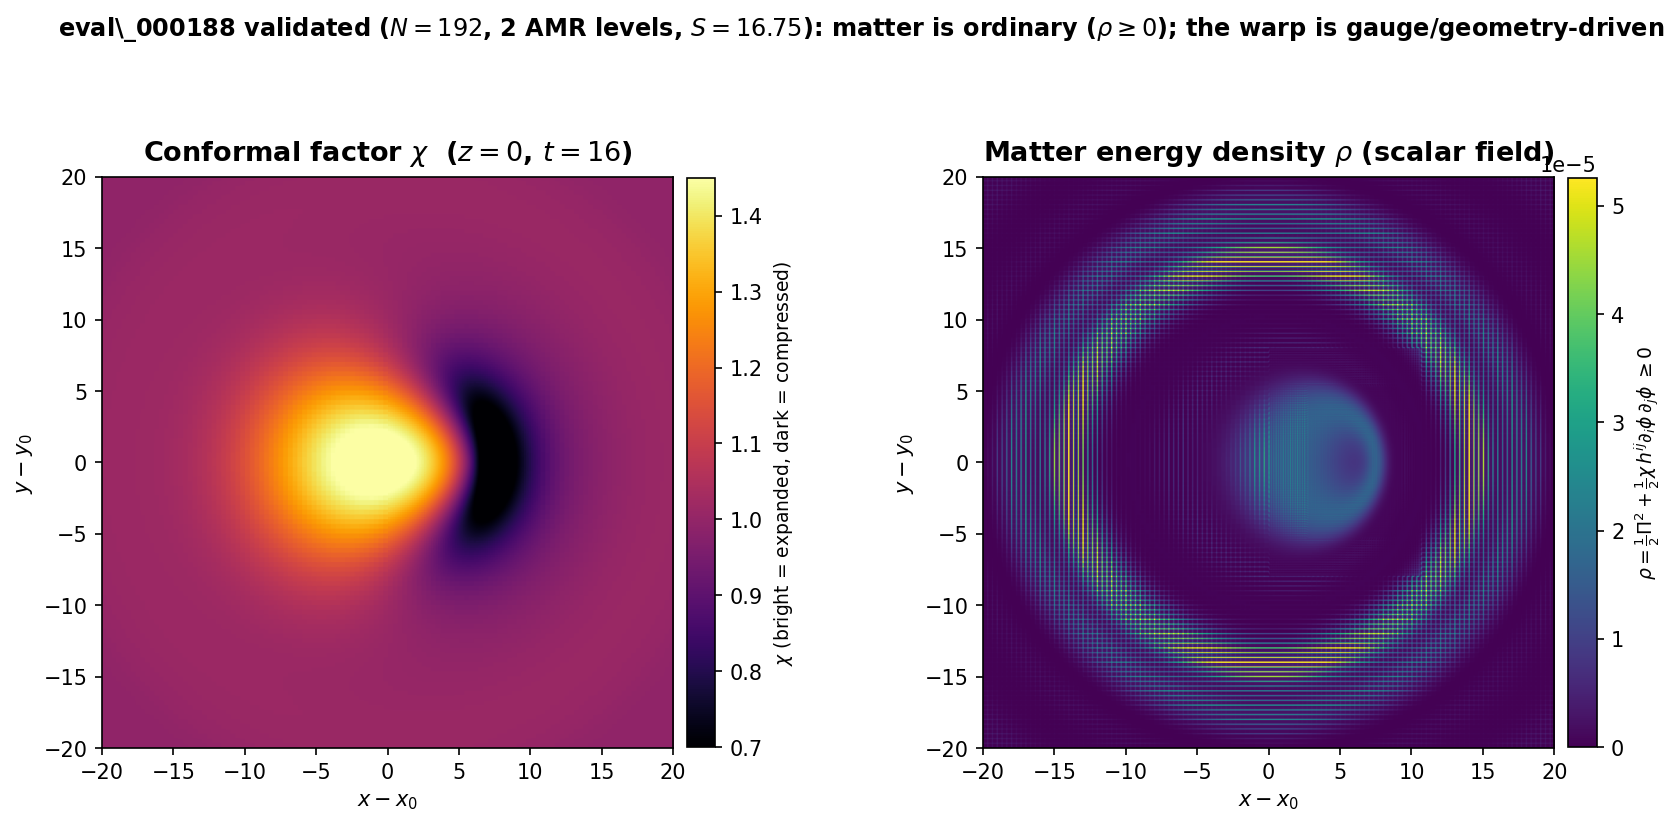
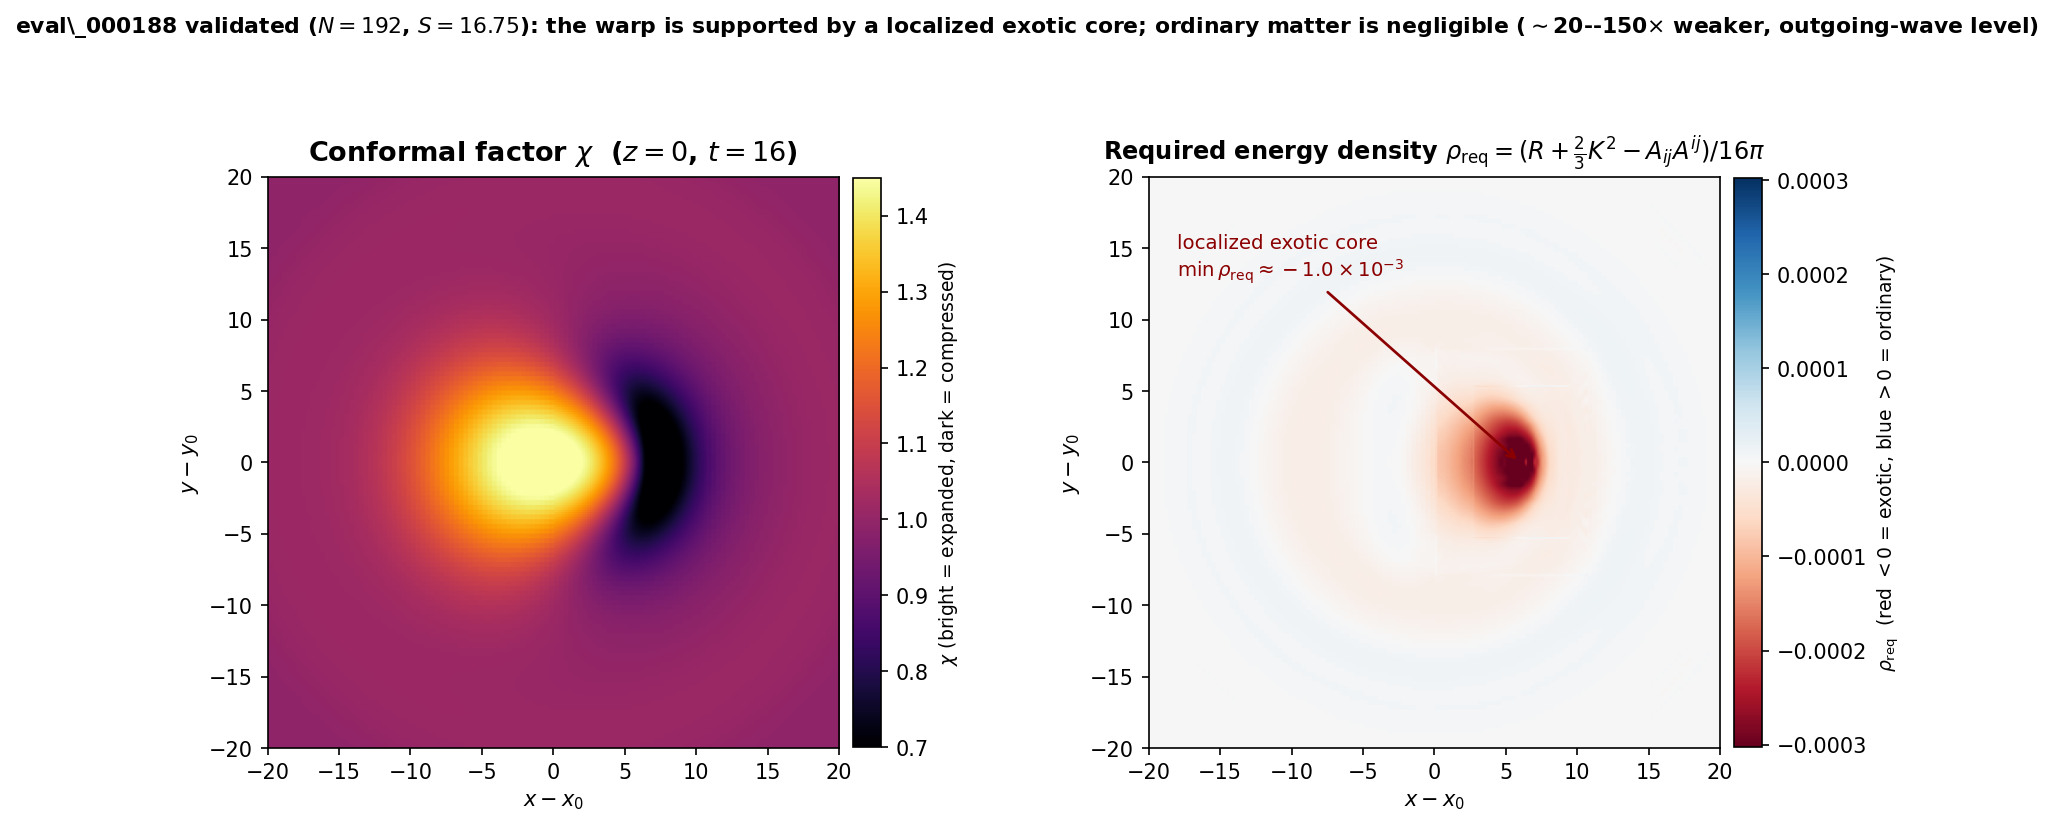
feat: paper update

diff --git a/research/researchnew.tex b/research/researchnew.tex
@@ -399,10 +399,10 @@ Beyond CMA-ES, two complementary strategies were tested.  A surrogate-assisted R
 
 Because angular $\chi$ deformations cannot be made constraint-consistent by a 1D solve, we opened the gauge sector: $\alpha$ and $\beta^i$ carry Legendre modes with $\ell\in\{1,2\}$ and searchable radial centers/widths, giving a 21-parameter gauge-angular space.  An 8-GPU campaign found evolved superluminal channels at $\int\!\rho_{-}\,dV\approx0.13$--$0.17$, a factor $2$--$5$ below spherical persistent-FTL candidates.
 
-The three top-ranked candidates of the campaign and the long-run validation of the best are compared against the reference solutions by gated score $S$ in Table~\ref{tab:score_comparison}.  The top candidate, \texttt{eval\_000188}, was promoted and re-evolved to $t=16$ at $N_{\rm full}=192$, \texttt{max\_level=2} (Fig.~\ref{fig:hq188}).  The validated geometry is a standing Alcubierre-like $\chi$ dipole, not a translating bubble: the evolved channel persists weakly ($\max c:2.67\!\to\!1.32$, $F_{\rm op}^{\rm ev}=5.6\times10^{-3}$, $51\%$ of the path superluminal), constraints stay clean and decreasing ($\|H\|_{L^2}:1.1\times10^{-3}\!\to\!4.2\times10^{-4}$, $\|M\|_{L^2}^{\rm fin}=3.6\times10^{-5}$), and the required exotic matter stays small and axial ($\int\rho_-\,dV=0.134$, ANEC line $-6.6\times10^{-3}$), though a near-trapped flag appears in the compressed lobe ($\min\theta_+=-0.11$).
+The three top-ranked candidates of the campaign and the long-run validation of the best are compared against the reference solutions by gated score $S$ in Table~\ref{tab:score_comparison}.  The top candidate, \texttt{eval\_000188}, was promoted and re-evolved to $t=16$ at $N_{\rm full}=192$, \texttt{max\_level=2} (Fig.~\ref{fig:rho_req}).  The validated geometry is a standing Alcubierre-like $\chi$ dipole, not a translating bubble: the evolved channel persists weakly ($\max c:2.67\!\to\!1.32$, $F_{\rm op}^{\rm ev}=5.6\times10^{-3}$, $51\%$ of the path superluminal), constraints stay clean and decreasing ($\|H\|_{L^2}:1.1\times10^{-3}\!\to\!4.2\times10^{-4}$, $\|M\|_{L^2}^{\rm fin}=3.6\times10^{-5}$), and the required exotic matter stays small and concentrated in a single localized core at the compression lobe ($\int\rho_-\,dV=0.13$, $\min\rho_{\rm req}\approx-1.0\times10^{-3}$, ANEC line $-6.6\times10^{-3}$; Fig.~\ref{fig:rho_req}), though a near-trapped flag appears in the compressed lobe ($\min\theta_+=-0.11$).
 
 \begin{table*}[t]
-\caption{Candidates ranked by the gated objective $S$ (Eq.~\ref{eq:gated_score}).  The three top gauge-angular search winners (Tier-1, $t=2$, $N_{\rm full}=64$) and the high-quality long-run validation of the best ($t=16$, $N_{\rm full}=192$) are compared to the reference seeds ($t=16$, $N_{\rm full}=64$).  $\int\rho_-\,dV$ is the integrated required negative-energy density (matter sector); $\max c$ is the peak coordinate light speed on the initial slice; $F_{\rm op}^{\rm ev}$ is the evolved (persistence) operational-FTL benefit.  The Tier-1 search $S$ is evaluated over a short window and is therefore optimistic relative to the long-time value---the validated $t=16$ row ($S=16.75$) is the fair comparison with the seeds, and it still outscores Alcubierre.  The non-spherical winners use \emph{normal} matter ($\rho\ge0$ constrained solve) with low residual exotic content; the reference wormhole/puncture seeds use phantom (exotic) initial data, and Alcubierre's matter sector is clean ($\int\rho_-\approx0$) with its exoticity living in the geometry (effective EC).}
+\caption{Candidates ranked by the gated objective $S$ (Eq.~\ref{eq:gated_score}).  The three top gauge-angular search winners (Tier-1, $t=2$, $N_{\rm full}=64$) and the high-quality long-run validation of the best ($t=16$, $N_{\rm full}=192$) are compared to the reference seeds ($t=16$, $N_{\rm full}=64$).  $\int\rho_-\,dV$ is the integrated required negative-energy density (geometric requirement from the vacuum Hamiltonian, Eq.~\ref{eq:rho_req}; for the dipole winner it is a single localized core, Fig.~\ref{fig:rho_req}); $\max c$ is the peak coordinate light speed on the initial slice; $F_{\rm op}^{\rm ev}$ is the evolved (persistence) operational-FTL benefit.  The Tier-1 search $S$ is evaluated over a short window and is therefore optimistic relative to the long-time value---the validated $t=16$ row ($S=16.75$) is the fair comparison with the seeds, and it still outscores Alcubierre.  The non-spherical winners use \emph{normal} matter ($\rho\ge0$ constrained solve) with low residual exotic content; the reference wormhole/puncture seeds use phantom (exotic) initial data, and Alcubierre's matter sector is clean ($\int\rho_-\approx0$) with its exoticity living in the geometry (effective EC).}
 \label{tab:score_comparison}
 \small
 \begin{ruledtabular}
@@ -427,14 +427,25 @@ Flat Minkowski & $16\,/\,64$ & $0$ & $1.00$ & --- & \textbf{0.0}\\
 \end{ruledtabular}
 \end{table*}
 
+Even after honest long-time validation (Table~\ref{tab:score_comparison}), the dipole metric achieves a gated total $S=16.75$, outperforming both Alcubierre $v=0.5$ ($S=14.9$) and Ellis--Bronnikov ($S=12.8$) evaluated on the same $t=16$ window.  Crucially, it accomplishes this with an exotic-matter cost of $\int\rho_{-}\,dV=0.13$ on a \emph{normal}-matter solve---substantially lower than spherical persistent-FTL candidates, and without the phantom matter the reference wormhole seeds require---while maintaining a superluminal path fraction of $0.51$ in the evolved frame.  This demonstrates that the automated search can discover geometries that outperform hand-designed warp metrics on the combined objective of FTL benefit, stability, and energy-condition cost.
+
+\paragraph{Where the exotic matter actually lives.}
+The integrated cost $\int\rho_-\,dV$ is a single scalar; to see \emph{where} energy-condition violation is required we now emit the geometric required energy density as a per-cell plot field,
+\begin{equation}
+\rho_{\rm req}=\frac{R+\tfrac{2}{3}K^2-A_{ij}A^{ij}}{16\pi}=\frac{H_{\rm vac}}{16\pi},
+\label{eq:rho_req}
+\end{equation}
+i.e.\ the Eulerian energy density that the Einstein constraints demand to source the \emph{evolved} geometry, computed from the same vacuum Hamiltonian operator used for the constraint diagnostics (so the field integrates exactly to the tabulated $\int\rho_-\,dV$).  Figure~\ref{fig:rho_req} maps it on the $z=0$ slice of the validated winner.  The result is unambiguous and somewhat surprising: the requirement is a \emph{single, spatially localized exotic core} ($\rho_{\rm req}\approx-1.0\times10^{-3}$) sitting exactly on the dark compression crescent of $\chi$, while the rest of the domain is essentially matter-free ($\rho_{\rm req}\approx0$).  The faint residual ring co-located with the outgoing $K$-wave is propagating gauge/constraint radiation, roughly $20$--$150\times$ weaker than the core (its $\tfrac{2}{3}K^2$ piece is only $\sim3\%$ of the local value; the rest is the $R$ oscillation of the same outgoing pulse), and it leaves the grid rather than supporting the structure.  Notably there is \emph{no} comparable region of required ordinary matter: this is not a balanced positive/negative Alcubierre shell but a one-sided exotic lens.
+
 \begin{figure}[tbp]
     \centering
-    \includegraphics[width=0.85\columnwidth]{articlepictures/hq188_chi_t16.png}
-    \caption{\textbf{Persistent directional channel of the gauge-angular winner \texttt{eval\_000188}} (conformal factor $\chi$, $z=0$ slice, $t=16$, $N_{\rm full}=192$).  A standing front--back dipole compresses space on the $+x$ side ($\chi\approx0.7$, dark) and expands it behind ($\chi\approx1.45$, bright)---an Alcubierre-like contract-ahead/expand-behind polarity realized through the shift sector at low exotic-matter cost.  The structure does not translate; it stands and slowly decays.}
-    \label{fig:hq188}
+    \includegraphics[width=\columnwidth]{articlepictures/chi_vs_rho_req.png}
+    \caption{\textbf{The warp dipole is held by a localized exotic core, with negligible ordinary matter.}  Left: conformal factor $\chi$ at $z=0$, $t=16$ (bright $=$ expanded, dark $=$ compressed).  Right: the geometric required energy density $\rho_{\rm req}$ of Eq.~\eqref{eq:rho_req} on the same slice (red $<0$ exotic, blue $>0$ ordinary, shared symmetric scale).  The energy-condition violation needed to sustain the geometry is concentrated in one compact core ($\min\rho_{\rm req}\approx-1.0\times10^{-3}$) coincident with the compression crescent; the surrounding domain is near-vacuum and the faint outer ring is the weak outgoing $K$-wave (junk radiation), not localized matter.}
+    \label{fig:rho_req}
 \end{figure}
 
-Even after honest long-time validation (Table~\ref{tab:score_comparison}), the dipole metric achieves a gated total $S=16.75$, outperforming both Alcubierre $v=0.5$ ($S=14.9$) and Ellis--Bronnikov ($S=12.8$) evaluated on the same $t=16$ window.  Crucially, it accomplishes this with an exotic-matter cost of $\int\rho_{-}\,dV=0.134$ on a \emph{normal}-matter solve---substantially lower than spherical persistent-FTL candidates, and without the phantom matter the reference wormhole seeds require---while maintaining a superluminal path fraction of $0.51$ in the evolved frame.  This demonstrates that the automated search can discover geometries that outperform hand-designed warp metrics on the combined objective of FTL benefit, stability, and energy-condition cost.
+\paragraph{How can it ``move'' with only an exotic component?}
+It largely does \emph{not} translate, and Fig.~\ref{fig:rho_req} explains why.  The localized exotic core acts as a static spatial \emph{lens}: its negative energy is what bends proper distance into the compress-ahead/expand-behind $\chi$ dipole, which is the geometric ingredient that opens a faster coordinate channel and produces the operational-FTL benefit (a signal crosses the lens in less coordinate time than the flat control).  But a benefit on the initial slice is not propulsion.  Translating that lens---carrying a passenger region along with it---requires a sustained \emph{momentum} density $j_i$, since the off-diagonal Einstein equations set $G_{0i}=8\pi j_i$ and the momentum constraint relates $j_i$ to the time-dependence of the shift (the warp ``motor'').  Our candidate has a near-clean momentum constraint ($\|M\|^{\rm fin}_{L^2}=3.6\times10^{-5}$) and no driven shift, so there is no motor: the exotic core can hold the lens in place but cannot pump it across the grid.  Consistently, the evolved channel coasts rather than propagates---peak coordinate speed decays ($2.67\!\to\!1.32$) and the structure stands and slowly relaxes rather than moving.  In short, the exotic core is \emph{necessary} to curve space into a shortcut, but \emph{motion} additionally needs a co-moving momentum source; supplying that (a searchable translation shift / sustained $j_i$) is exactly the next degree of freedom identified in Sec.~\ref{sec:discussion}.
 
 Figure~\ref{fig:chi_tiles} shows the conformal factor $\chi$ for all four candidates in Table~\ref{tab:score_comparison} that have frames.  The conformal factor encodes the local stretching of space: the physical spatial metric is $\gamma_{ij}=\chi^{-1}\tilde\gamma_{ij}$, so regions with $\chi>1$ (bright) have \emph{expanded} proper distances---space is stretched---while regions with $\chi<1$ (dark) have \emph{compressed} proper distances---space is squeezed.  For a flat, undeformed geometry $\chi=1$ everywhere (uniform purple).  The Alcubierre warp mechanism requires exactly this polarity: compressed space ahead of the passenger region and expanded space behind it.
 

diff --git a/Examples/RadialRecipe/RadialRecipeLevel.cpp b/Examples/RadialRecipe/RadialRecipeLevel.cpp
@@ -249,6 +249,39 @@ reduce_ec_margins(const amrex::MultiFab &state_fine, const matter_t &matter,
     amrex::ParallelDescriptor::ReduceRealSum(integral_nec);
     return {min_nec, min_wec, min_sec, min_dec, integral_nec};
 }
+
+// Derived plot field: geometric required energy density
+//   rho_req = Ham_vac / (16 pi) = (R + (2/3) K^2 - A_ij A^ij) / (16 pi)
+// This is the Eulerian energy density that Einstein's equations demand to
+// source the *evolved geometry*, independent of whatever matter is actually
+// present.  Cells with rho_req < 0 are precisely the exotic-matter requirement
+// whose minimum/integral are logged as min_rho_req / integral_neg_rho in
+// constraint_norms.dat, so this field lets the same quantity be mapped and
+// plotted (it matches the scalar diagnostics by construction).
+void compute_rho_req_mf(amrex::MultiFab &out_mf, int dcomp, int /*ncomp*/,
+                        const amrex::MultiFab &src_mf,
+                        const amrex::Geometry &geomdata,
+                        amrex::Real /*time*/, const int * /*bcrec*/,
+                        int /*level*/)
+{
+    const auto &out_arrays         = out_mf.arrays();
+    const auto &src_arrays         = src_mf.const_arrays();
+    const amrex::Real dx           = geomdata.CellSize(0);
+    constexpr amrex::Real inv_16pi = 1.0 / (16.0 * M_PI);
+
+    // Vacuum (geometry-only) Hamiltonian written into component dcomp; the empty
+    // momentum interval means store_vars only fills Ham.
+    Constraints vacuum_constraints(dx, dcomp, Interval());
+
+    amrex::ParallelFor(
+        out_mf, out_mf.nGrowVect(),
+        [=] AMREX_GPU_DEVICE(int box_no, int ix, int iy, int iz) noexcept
+        {
+            vacuum_constraints(ix, iy, iz, out_arrays[box_no],
+                               src_arrays[box_no]);
+            out_arrays[box_no](ix, iy, iz, dcomp) *= inv_16pi;
+        });
+}
 } // namespace
 
 void RadialRecipeLevel::variableSetUp()
@@ -274,6 +307,21 @@ void RadialRecipeLevel::variableSetUp()
         ConstraintsWithMatter<ScalarField<DefaultPotential>>::set_up(
             state_index);
         Weyl4WithMatter<ScalarField<DefaultPotential>>::set_up(state_index);
+    }
+
+    // Geometry-only required energy density rho_req = Ham_vac / (16 pi), so the
+    // exotic-matter requirement (rho_req < 0) can be plotted as a field, not
+    // just integrated into constraint_norms.dat.
+    {
+        int num_ghosts       = 2;
+        auto &derive_lst     = amrex::AmrLevel::get_derive_lst();
+        const auto &desc_lst = amrex::AmrLevel::get_desc_lst();
+        derive_lst.add(
+            "rho_req", amrex::IndexType::TheCellType(), 1,
+            amrex::Vector<std::string>{"rho_req"}, compute_rho_req_mf,
+            [=](const amrex::Box &box) { return amrex::grow(box, num_ghosts); },
+            &amrex::cell_quartic_interp);
+        derive_lst.addComponent("rho_req", desc_lst, state_index, 0, NUM_VARS);
     }
 }
 
